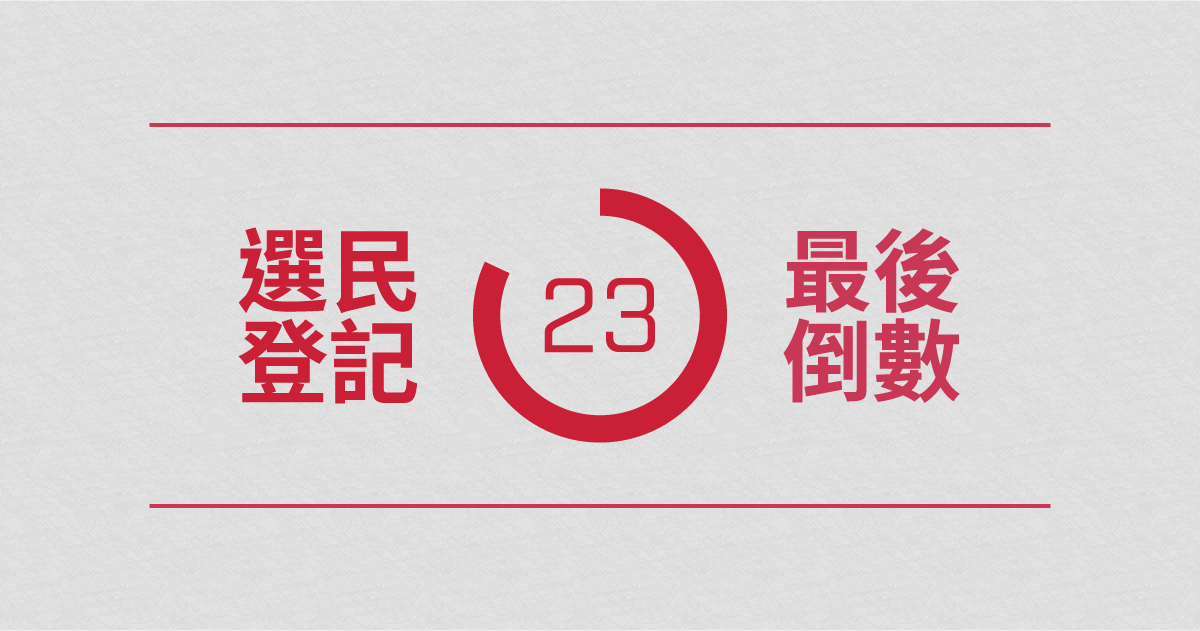
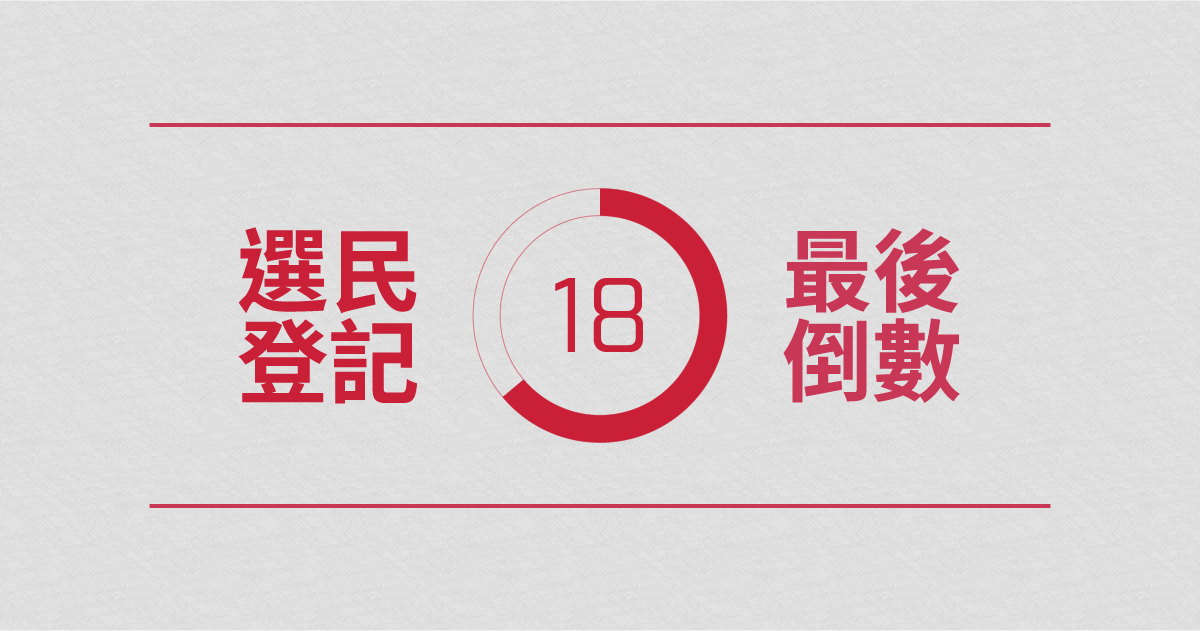
Daily update

Changed region(s): [[0.37, 0.4216, 0.555, 0.6323]]

diff --git a/index.html b/index.html
@@ -108,11 +108,11 @@
        margin:8rem 0;
      }
   </style>
-  <meta property="og:url" content="https://kbfl-campaign.github.io/?apr9">
+  <meta property="og:url" content="https://kbfl-campaign.github.io/?apr14">
   <meta property="og:type" content="website">
-  <meta property="og:title" content="我是方丈 選民登記 最後23日">
+  <meta property="og:title" content="我是方丈 選民登記 最後18日">
   <meta property="og:description" content="只要你是香港永久性居民、通常在香港居住及已年滿 18 歲，參與選舉就是你的基本權利。">
-  <meta property="og:image" content="https://kbfl-campaign.github.io/assets/fb.png?apr9">
+  <meta property="og:image" content="https://kbfl-campaign.github.io/assets/fb.png?apr14">
   <link rel="shortcut icon" href="favicon.png">
   <meta name="theme-color" content="#c91f37">
 </head>
